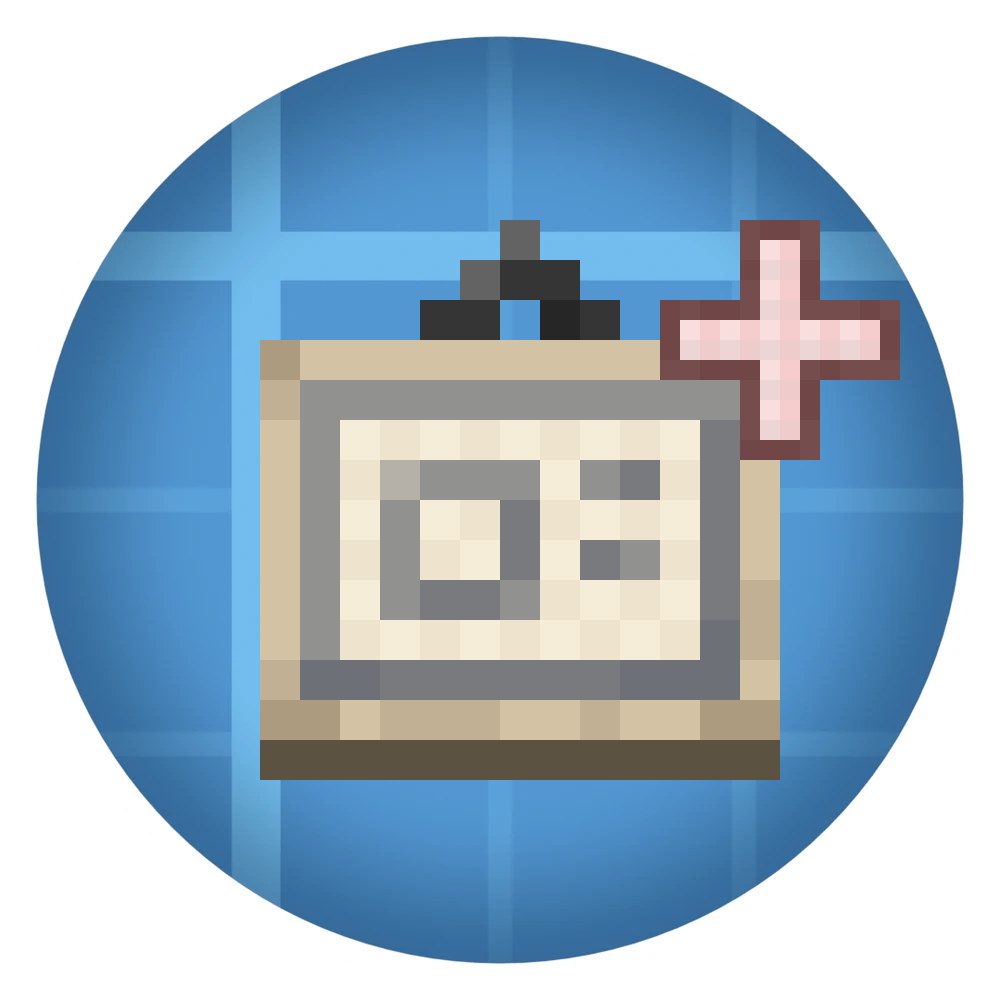
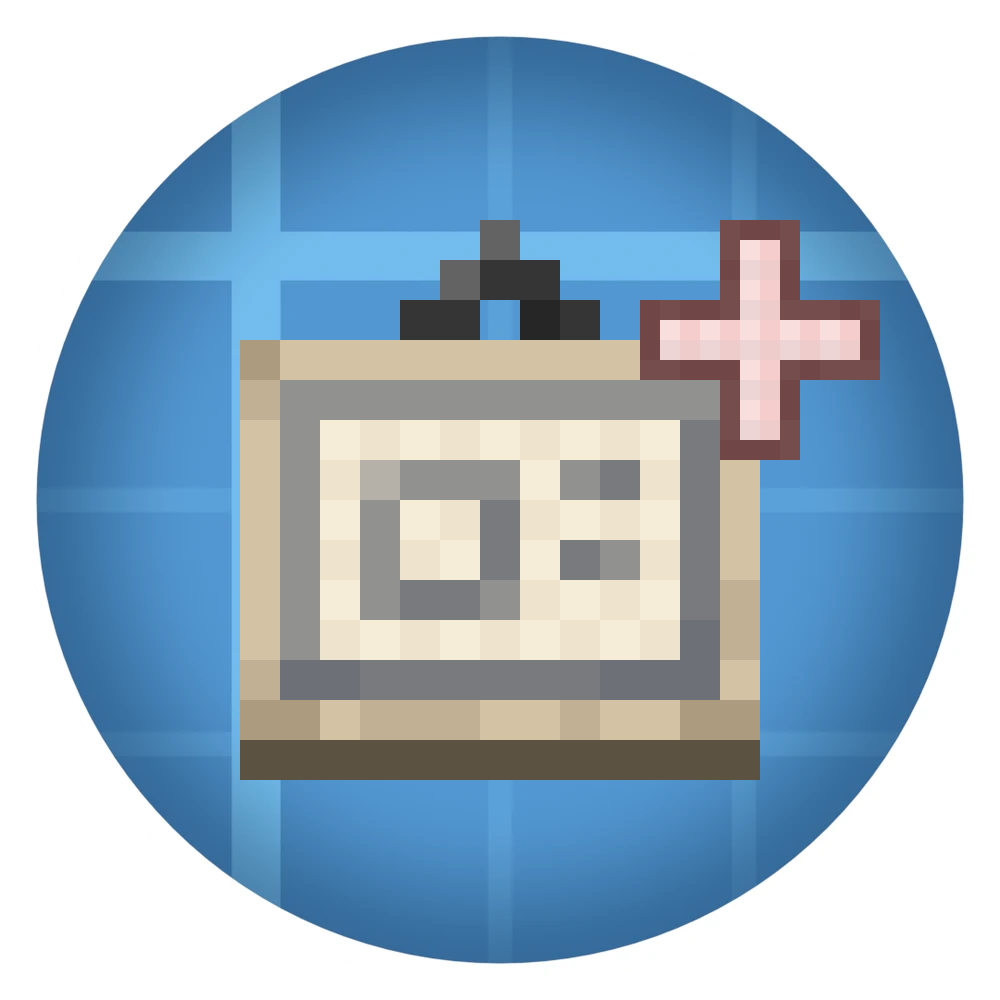
Add sublevel resque command

diff --git a/src/main/java/com/zelaux/betterdiagram/command/ServerHelpers.java b/src/main/java/com/zelaux/betterdiagram/command/ServerHelpers.java
@@ -1,0 +1,226 @@
+package com.zelaux.betterdiagram.command;
+
+import com.mojang.brigadier.CommandDispatcher;
+import com.mojang.brigadier.context.CommandContext;
+import com.zelaux.betterdiagram.extend.accessors.SubLevelStorageAccessors;
+import com.zelaux.betterdiagram.mixin.accessors.server_helpers.SubLevelStorageFileAccessors;
+import dev.ryanhcode.sable.api.command.SableCommandHelper;
+import dev.ryanhcode.sable.api.physics.PhysicsPipeline;
+import dev.ryanhcode.sable.api.sublevel.ServerSubLevelContainer;
+import dev.ryanhcode.sable.api.sublevel.SubLevelContainer;
+import dev.ryanhcode.sable.companion.math.BoundingBox3d;
+import dev.ryanhcode.sable.companion.math.BoundingBox3dc;
+import dev.ryanhcode.sable.companion.math.BoundingBox3i;
+import dev.ryanhcode.sable.sublevel.ServerSubLevel;
+import dev.ryanhcode.sable.sublevel.storage.holding.SavedSubLevelPointer;
+import dev.ryanhcode.sable.sublevel.storage.holding.SubLevelHoldingChunk;
+import dev.ryanhcode.sable.sublevel.storage.holding.SubLevelHoldingChunkMap;
+import dev.ryanhcode.sable.sublevel.storage.region.SubLevelRegionFile;
+import dev.ryanhcode.sable.sublevel.storage.region.SubLevelStorageFile;
+import dev.ryanhcode.sable.sublevel.storage.serialization.SubLevelData;
+import dev.ryanhcode.sable.sublevel.storage.serialization.SubLevelStorage;
+import dev.ryanhcode.sable.util.SableNBTUtils;
+import lombok.SneakyThrows;
+import net.minecraft.commands.CommandBuildContext;
+import net.minecraft.commands.CommandSourceStack;
+import net.minecraft.commands.Commands;
+import net.minecraft.network.chat.ClickEvent;
+import net.minecraft.network.chat.Component;
+import net.minecraft.server.level.ServerLevel;
+import net.minecraft.util.Mth;
+import net.minecraft.world.level.ChunkPos;
+import org.jetbrains.annotations.NotNull;
+import org.jetbrains.annotations.Nullable;
+import org.joml.Vector3d;
+
+import java.io.File;
+import java.util.*;
+import java.util.function.Function;
+import java.util.stream.Collectors;
+import java.util.stream.Stream;
+
+public class ServerHelpers {
+    public static void register(CommandDispatcher<CommandSourceStack> dispatcher, CommandBuildContext buildContext) {
+
+        dispatcher.register(Commands
+            .literal("sublevel")
+                      .requires(x->x.hasPermission(2))
+            .then(Commands
+                .literal("resque")
+                .executes(context -> {
+                    return checkLoaded(context) + checkSaved(context);
+                })
+            )
+
+        );
+    }
+
+    @SneakyThrows
+    @SuppressWarnings("UnstableApiUsage")
+    private static int checkLoaded(CommandContext<CommandSourceStack> context) {
+        ServerLevel level = context.getSource().getLevel();
+
+        final ServerSubLevelContainer container = SubLevelContainer.getContainer(level);
+        assert container != null : "No sub-level container";
+        int counter = 0;
+
+        CommandSourceStack source = context.getSource();
+        double y = source.getPosition().y;
+
+        SableCommandHelper.requireSubLevelPhysicsSystem(context).setPaused(true);
+        final PhysicsPipeline pipeline = SableCommandHelper.requireSubLevelPhysicsPipeline(context);
+        for(ServerSubLevel subLevel : container.getAllSubLevels()) {
+            if(!(subLevel.latestLinearVelocity.y < 0)) continue;
+            ;
+            Vector3d position = subLevel.logicalPose().position();
+            if(!(position.y < level.getMinBuildHeight() - 64 - 40)) continue;
+            position.y = y;
+
+            pipeline.teleport(subLevel,new Vector3d(position),subLevel.logicalPose().orientation());
+            pipeline.resetVelocity(subLevel);
+            counter++;
+        }
+        if(counter > 0) {
+            int counter0 = counter;
+            source.sendSuccess(() -> Component.literal(counter0+" of loaded sublevels are above world"), true);
+            source.sendSuccess(() -> Component.literal("Simulation paused").append(
+                Component.literal("Click to get command to resume simulation")
+                    .withStyle(s->s.withUnderlined(true)
+                        .withClickEvent(new ClickEvent(ClickEvent.Action.SUGGEST_COMMAND,
+                            "/sable paused false"
+                        ))
+                    )
+            ), true);
+            container.getHoldingChunkMap().saveAll();
+        } else {
+            SableCommandHelper.requireSubLevelPhysicsSystem(context).setPaused(false);
+            source.sendSuccess(() -> Component.literal("All loaded sublevels are above world"), true);
+        }
+
+
+        return counter;
+    }
+
+    @SuppressWarnings("UnstableApiUsage")
+    private static int checkSaved(CommandContext<CommandSourceStack> context) {
+        ServerLevel level = context.getSource().getLevel();
+
+        final ServerSubLevelContainer container = SubLevelContainer.getContainer(level);
+        assert container != null : "No sub-level container";
+
+        final SubLevelHoldingChunkMap holdingChunkMap = container.getHoldingChunkMap();
+        SubLevelStorage storage = holdingChunkMap.getStorage();
+        var chunks = collectChunkPos(storage).toList();
+        if(chunks == null) return 0;
+        SubLevelStorageAccessors accessors = (SubLevelStorageAccessors) storage;
+        List<NestedChunkEntry> list = chunks
+            .stream()
+            .map(x -> of(x, accessors))
+            .map(entry -> {
+                BitSet bitSet = entry.accessors.usedIndices();
+                ArrayList<ChunkPos> newChunk = new ArrayList<>();
+                for(int i = bitSet.nextSetBit(0); i < entry.file.getTotalIndexCapacity(); i = bitSet.nextSetBit(i)) {
+                    // return localX | (localZ << LOG_SIDE_LENGTH);
+                    int z = i >> SubLevelRegionFile.LOG_SIDE_LENGTH;
+                    int x = i & (-1 << SubLevelRegionFile.LOG_SIDE_LENGTH);
+                    newChunk.add(new ChunkPos(
+                        entry.chunkPos.x + x,
+                        entry.chunkPos.z + z
+                    ));
+                }
+                return new NestedChunkEntry(entry, newChunk);
+            }).toList();
+        Map<ChunkPos, SubLevelHoldingChunk> collected = list.stream()
+                                                            .flatMap(x -> x.subchunks.stream())
+                                                            .collect(Collectors.toMap(x -> x, storage::attemptLoadHoldingChunk));
+        collected.forEach((chunkPos, holdingChunk) -> {
+
+            Vector3d tmp = new Vector3d();
+            for(final SavedSubLevelPointer pointer : holdingChunk.getSubLevelPointers()) {
+                final SubLevelData data = storage.attemptLoadSubLevel(chunkPos, pointer);
+                Vector3d position = data.pose().position();
+                BoundingBox3d bounds = data.bounds();
+
+                final BoundingBox3i chunkBounds = getChunkBounds(bounds);
+                ;
+                int middleChunk = (int) ((bounds.center(tmp).y) / 16);
+                boolean shouldSave = false;
+                if(!chunkBounds.contains(chunkPos.x, middleChunk, chunkPos.z)) {
+
+                    //SableNBTUtils.readBoundingBox(tag.getCompound("world_bounds")),
+                    tmp.set(chunkPos.getMiddleBlockX(), position.y, chunkPos.getMiddleBlockZ());
+                    bounds.set(
+                        tmp.x - 0.1, tmp.y - 0.1, tmp.z - 0.1,
+                        tmp.x + 0.1, tmp.y + 0.1, tmp.z + 0.1
+                    );
+                    data.fullTag().put(
+                        "world_bounds", SableNBTUtils.writeBoundingBox(bounds)
+                    );
+                    shouldSave = true;
+                }
+
+                if(position.y < level.getMinBuildHeight() - 64 - 40) {
+                    //    SableNBTUtils.readPose3d(tag.getCompound("pose")),
+
+                    position.y = context.getSource().getPosition().y;
+                    data.fullTag().put(
+                        "pose", SableNBTUtils.writePose3d(data.pose())
+                    );
+                    shouldSave = true;
+                }
+
+
+                if(shouldSave) {
+                    context.getSource().sendSuccess(() -> Component.literal("Try to resque sublevel"), true);
+                    storage.attemptSaveSubLevel(chunkPos, data);
+                }
+                //logFoundSubLevel(pointer, data, chunkPos, source, level);
+            }
+        });
+
+
+        return 1;
+    }
+
+    private static @Nullable Stream<ChunkPos> collectChunkPos(SubLevelStorage storage) {
+        final File[] regionFiles = storage.getFolder().toFile().listFiles((dir, name) -> name.startsWith("r.") && name.endsWith(SubLevelRegionFile.FILE_EXTENSION));
+
+        if(regionFiles == null) return null;
+        return Arrays
+            .stream(regionFiles)
+            .map(File::getName)
+            //return "r." + entry.getRegionX() + "." + entry.getRegionZ();
+            .map(x -> x.substring("r.".length()).split("\\."))
+            .filter(x -> x.length == 2)
+            .map(x -> new ChunkPos(Integer.parseInt(x[0]) << 5, Integer.parseInt(x[1]) << 5));
+    }
+
+    private static @NotNull ServerHelpers.SubLevelStorageEntry of(ChunkPos x, SubLevelStorageAccessors accessors) {
+        SubLevelRegionFile file = accessors.bcd$getRegionFile(x);
+        return new SubLevelStorageEntry(x, file, ((SubLevelStorageFileAccessors) file));
+    }
+
+    private static @NotNull BoundingBox3i getChunkBounds(BoundingBox3dc bounds) {
+        final BoundingBox3i chunkBounds = new BoundingBox3i(
+            Mth.floor(bounds.minX() - 1.0) >> 4,
+            Mth.floor(bounds.minY() - 1.0) >> 4,
+            Mth.floor(bounds.minZ() - 1.0) >> 4,
+            Mth.floor(bounds.maxX() + 1.0) >> 4,
+            Mth.floor(bounds.maxY() + 1.0) >> 4,
+            Mth.floor(bounds.maxZ() + 1.0) >> 4
+        );
+        return chunkBounds;
+    }
+
+    static <A, B> ArrayList<B> map(ArrayList<A> a, Function<A, B> mapper) {
+        ArrayList<B> bs = new ArrayList<>(a.size());
+        for(A a1 : a) bs.add(mapper.apply(a1));
+        return bs;
+    }
+
+    private static Object mapFile(File file) {return null;}
+
+    record SubLevelStorageEntry(ChunkPos chunkPos, SubLevelStorageFile file, SubLevelStorageFileAccessors accessors) {}
+
+    record NestedChunkEntry(@NotNull SubLevelStorageEntry entry, List<ChunkPos> subchunks) {}
+}

diff --git a/src/main/java/com/zelaux/betterdiagram/mixin/accessors/server_helpers/SubLevelStorageMixin.java b/src/main/java/com/zelaux/betterdiagram/mixin/accessors/server_helpers/SubLevelStorageMixin.java
@@ -1,0 +1,23 @@
+package com.zelaux.betterdiagram.mixin.accessors.server_helpers;
+
+import com.zelaux.betterdiagram.extend.accessors.SubLevelStorageAccessors;
+import dev.ryanhcode.sable.sublevel.storage.region.SubLevelRegionFile;
+import dev.ryanhcode.sable.sublevel.storage.serialization.SubLevelStorage;
+import lombok.SneakyThrows;
+import net.minecraft.world.level.ChunkPos;
+import org.spongepowered.asm.mixin.*;
+
+import java.io.IOException;
+
+@Mixin(SubLevelStorage.class)
+public abstract class SubLevelStorageMixin implements SubLevelStorageAccessors {
+    @Shadow
+    protected abstract SubLevelRegionFile getRegionFile(ChunkPos chunkPos) throws IOException;
+
+    @Override
+    @SneakyThrows
+    public SubLevelRegionFile bcd$getRegionFile(ChunkPos chunkPos) {
+        return getRegionFile(chunkPos);
+    }
+
+}

diff --git a/src/main/java/com/zelaux/betterdiagram/BetterContraptionDiagram.java b/src/main/java/com/zelaux/betterdiagram/BetterContraptionDiagram.java
@@ -1,6 +1,7 @@
 package com.zelaux.betterdiagram;
 
 import com.mojang.logging.LogUtils;
+import com.zelaux.betterdiagram.command.ServerHelpers;
 import net.minecraft.resources.ResourceLocation;
 import net.minecraft.world.item.CreativeModeTabs;
 import net.neoforged.bus.api.IEventBus;
@@ -8,14 +9,14 @@ import net.neoforged.bus.api.SubscribeEvent;
 import net.neoforged.fml.ModContainer;
 import net.neoforged.fml.common.Mod;
 import net.neoforged.fml.config.ModConfig;
-import net.neoforged.fml.event.lifecycle.FMLCommonSetupEvent;
 import net.neoforged.neoforge.common.NeoForge;
 import net.neoforged.neoforge.event.BuildCreativeModeTabContentsEvent;
+import net.neoforged.neoforge.event.RegisterCommandsEvent;
 import net.neoforged.neoforge.event.server.ServerStartingEvent;
 import org.slf4j.Logger;
 
 // The value here should match an entry in the META-INF/neoforge.mods.toml file
-//@Mod(BetterContraptionDiagram.MODID)
+@Mod(BetterContraptionDiagram.MODID)
 public class BetterContraptionDiagram {
     // Define mod id in a common place for everything to reference
     public static final String MODID = "better_contraption_diagram";
@@ -26,7 +27,7 @@ public class BetterContraptionDiagram {
     // FML will recognize some parameter types like IEventBus or ModContainer and pass them in automatically.
     public BetterContraptionDiagram(IEventBus modEventBus, ModContainer modContainer) {
         // Register the commonSetup method for modloading
-        modEventBus.addListener(this::commonSetup);
+        //modEventBus.addListener(RegisterCommandsEvent.class,this::registerResqueCommand);
 
         // Register ourselves for server and other game events we are interested in.
         // Note that this is necessary if and only if we want *this* class (ExampleMod) to respond directly to events.
@@ -34,19 +35,19 @@ public class BetterContraptionDiagram {
         NeoForge.EVENT_BUS.register(this);
 
         // Register the item to a creative tab
-        modEventBus.addListener(this::addCreative);
+        //modEventBus.addListener(this::addCreative);
 
         // Register our mod's ModConfigSpec so that FML can create and load the config file for us
-        modContainer.registerConfig(ModConfig.Type.COMMON, Config.SPEC);
+        //modContainer.registerConfig(ModConfig.Type.COMMON, Config.SPEC);
     }
 
     public static ResourceLocation resource(String location) {
         return ResourceLocation.fromNamespaceAndPath(MODID, location);
     }
 
-    private void commonSetup(FMLCommonSetupEvent event) {
-        // Some common setup code
-        LOGGER.info("HELLO FROM COMMON SETUP");
+    @SubscribeEvent
+    private void registerResqueCommand(RegisterCommandsEvent event) {
+        ServerHelpers.register(event.getDispatcher(),event.getBuildContext());
     }
 
     // Add the example block item to the building blocks tab
@@ -57,7 +58,6 @@ public class BetterContraptionDiagram {
     }
 
     // You can use SubscribeEvent and let the Event Bus discover methods to call
-    @SubscribeEvent
     public void onServerStarting(ServerStartingEvent event) {
         // Do something when the server starts
         LOGGER.info("HELLO from server starting");

diff --git a/src/main/java/com/zelaux/betterdiagram/mixin/accessors/server_helpers/SubLevelStorageFileAccessors.java b/src/main/java/com/zelaux/betterdiagram/mixin/accessors/server_helpers/SubLevelStorageFileAccessors.java
@@ -1,0 +1,18 @@
+package com.zelaux.betterdiagram.mixin.accessors.server_helpers;
+
+import dev.ryanhcode.sable.sublevel.storage.region.SubLevelStorageFile;
+import org.spongepowered.asm.mixin.*;
+import org.spongepowered.asm.mixin.gen.*;
+
+import java.nio.IntBuffer;
+import java.util.BitSet;
+
+@Mixin(SubLevelStorageFile.class)
+public interface SubLevelStorageFileAccessors {
+    @Accessor("sectorSpans")
+    IntBuffer sectorSpans();
+    @Accessor("usedIndices")
+    BitSet usedIndices();
+    @Accessor("usedSectors")
+    BitSet usedSectors();
+}

diff --git a/src/main/java/com/zelaux/betterdiagram/extend/accessors/SubLevelStorageAccessors.java b/src/main/java/com/zelaux/betterdiagram/extend/accessors/SubLevelStorageAccessors.java
@@ -1,0 +1,10 @@
+package com.zelaux.betterdiagram.extend.accessors;
+
+import dev.ryanhcode.sable.sublevel.storage.region.SubLevelRegionFile;
+import net.minecraft.world.level.ChunkPos;
+
+import java.io.IOException;
+
+public interface SubLevelStorageAccessors {
+    SubLevelRegionFile bcd$getRegionFile(ChunkPos chunkPos) ;
+}

diff --git a/src/main/java/com/zelaux/betterdiagram/BetterContraptionDiagramClient.java b/src/main/java/com/zelaux/betterdiagram/BetterContraptionDiagramClient.java
@@ -43,10 +43,10 @@ public class BetterContraptionDiagramClient {
 
 
         final IEventBus neoBus = NeoForge.EVENT_BUS;
-        subscriptions.register(RegisterClientTooltipComponentFactoriesEvent.class, this::registerType);
+        //subscriptions.register(RegisterClientTooltipComponentFactoriesEvent.class, this::registerType);
     }
-
-    private void registerType(RegisterClientTooltipComponentFactoriesEvent event) {
+@SubscribeEvent
+    private static void registerType(RegisterClientTooltipComponentFactoriesEvent event) {
         event.register(WrappedTooltipComponent.class, it -> it.component);
     }
 